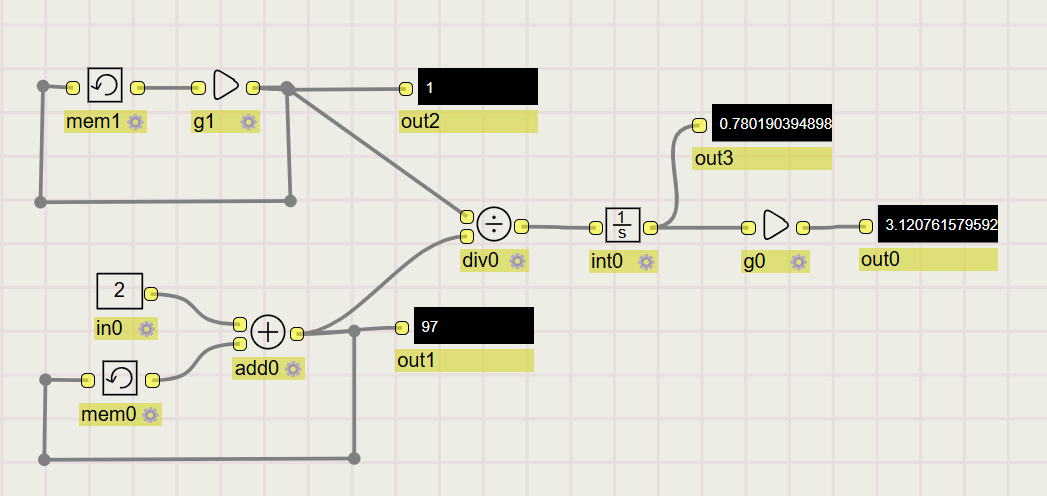
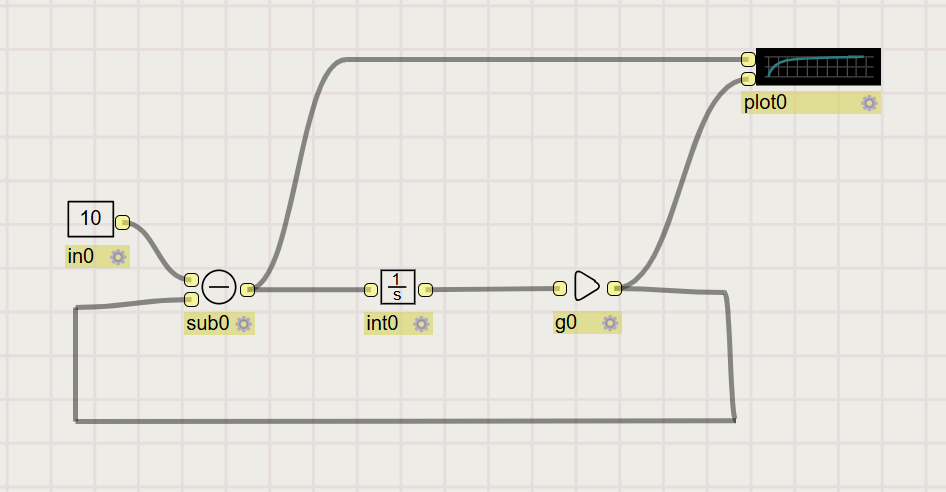
fix bezier port

Changed region(s): [[0.0307, 0.0915, 0.981, 0.9451]]

diff --git a/src/nodes/ports/bezierPortFactory.jsx b/src/nodes/ports/bezierPortFactory.jsx
@@ -1,0 +1,15 @@
+import { AbstractReactFactory } from '@projectstorm/react-canvas-core';
+import { RightAnglePortModel } from './rightAnglePortModel';
+import { BezierPortModel } from './bezierPortModel';
+
+class BezierPortFactory extends AbstractReactFactory {
+    constructor() {
+        super('bezier-port');
+    }
+
+    generateModel() {
+        return new BezierPortModel();
+    }
+}
+
+export { BezierPortFactory }

diff --git a/src/nodes/nodeModel.jsx b/src/nodes/nodeModel.jsx
@@ -9,7 +9,7 @@ import { SelectionBox } from './selection/mouse';
 import Stack from './stack/stack';
 import { toast } from 'react-toastify';
 import BezierLinkFactory from './links/bezierLinkFactory';
-
+import { BezierPortFactory } from './ports/bezierPortFactory';
 
 // Cria o motor do diagrama e o Modelo
 const Engine = createEngine();
@@ -58,6 +58,7 @@ Engine.getNodeFactories().registerFactory(new SimNodeFactory());
 Engine.getLinkFactories().registerFactory(new RightAngleLinkFactory());
 Engine.getLinkFactories().registerFactory(new BezierLinkFactory());
 Engine.getPortFactories().registerFactory(new RightAnglePortFactory());
+Engine.getPortFactories().registerFactory(new BezierPortFactory());
 
 // Cria o digrama e o modelo
 const Model = new DiagramModel();

diff --git a/src/nodes/links/bezierLinkFactory.jsx b/src/nodes/links/bezierLinkFactory.jsx
@@ -1,5 +1,6 @@
 import { DefaultLinkFactory } from '@projectstorm/react-diagrams';
 import BezierLinkWidget from './bezierWidget';
+import { BezierLinkModel } from './bezierLinks';
 
 class BezierLinkFactory extends DefaultLinkFactory {
     constructor() {